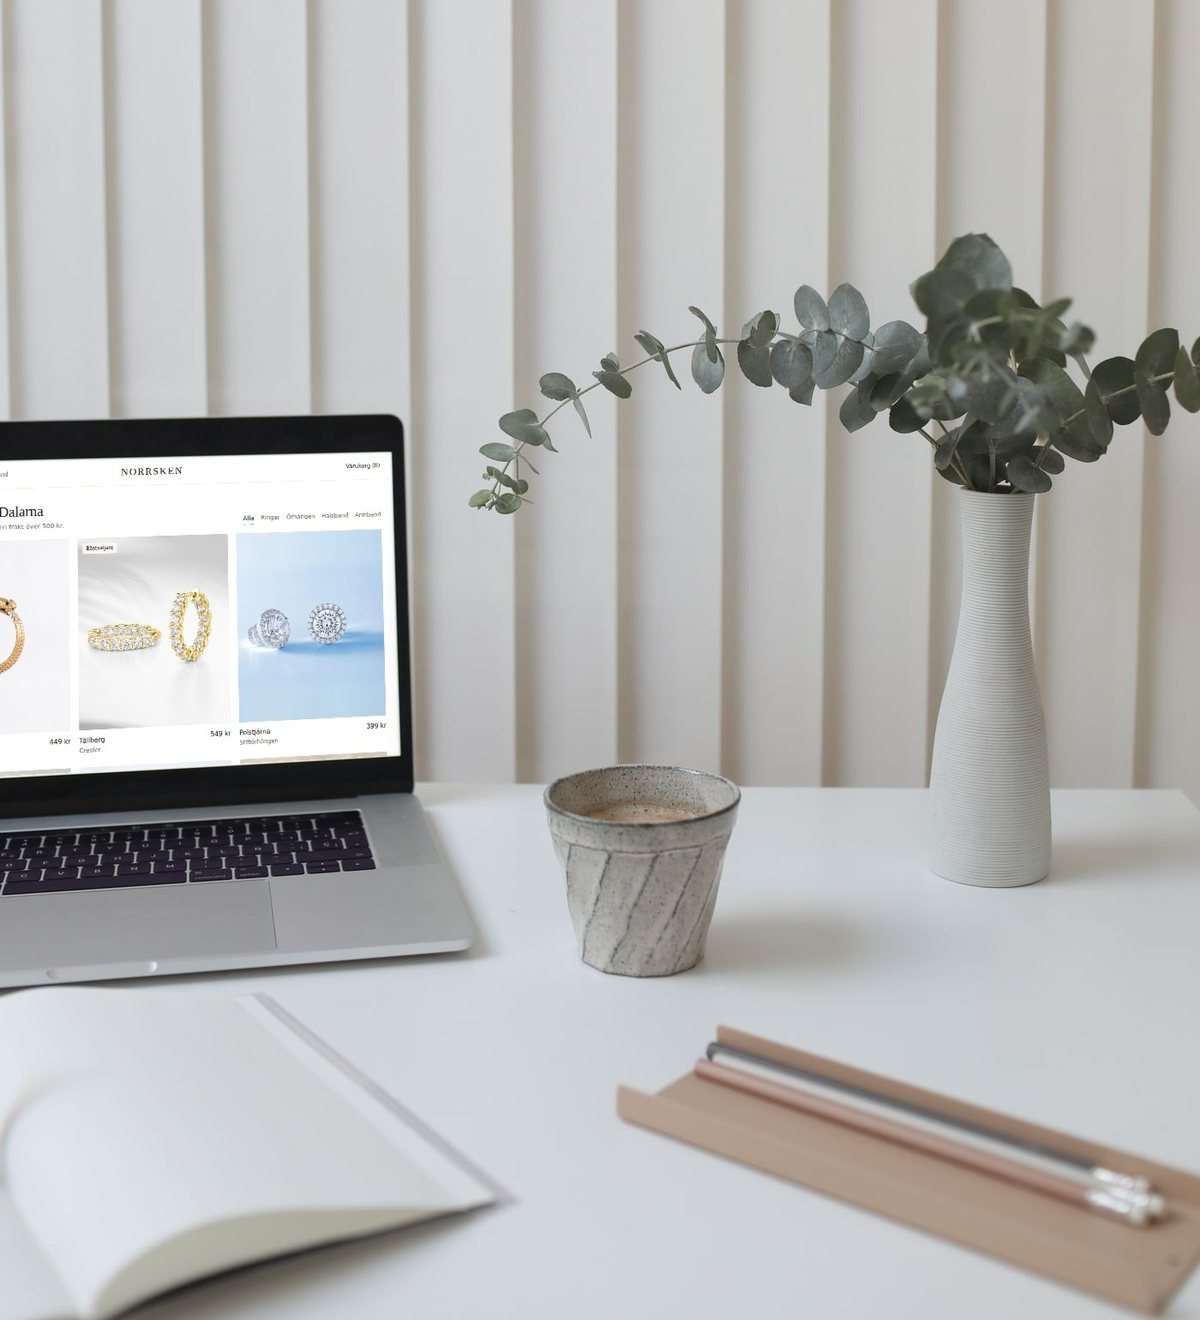
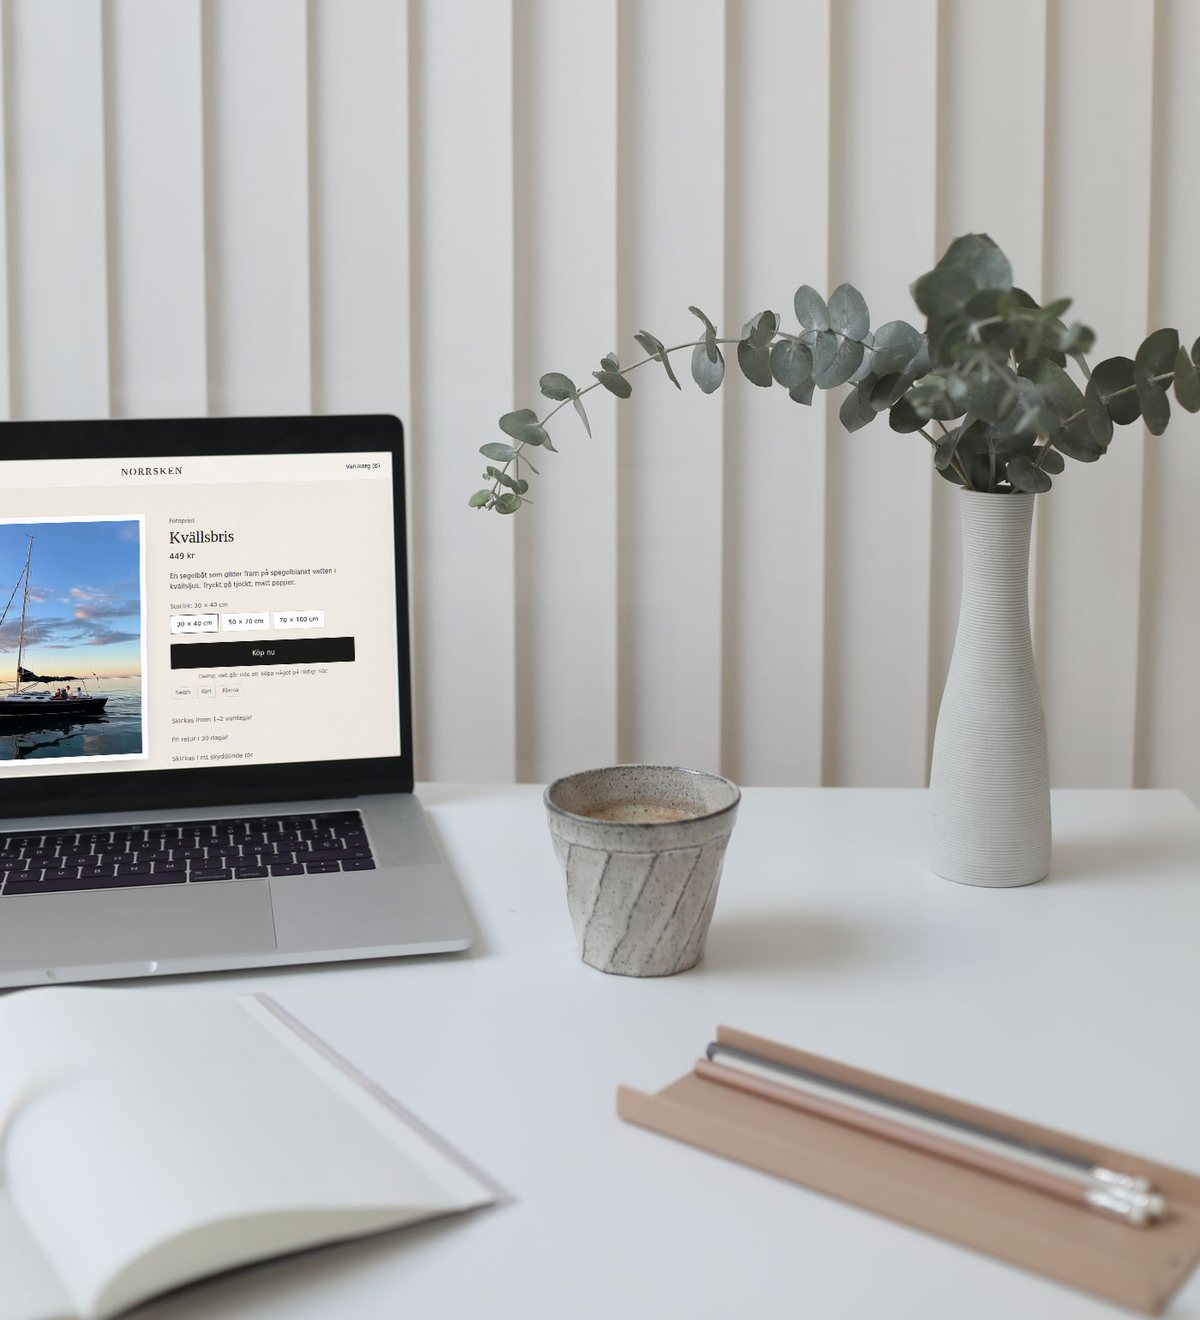
Demobutiken säljer fotoprints med egna bilder
- Fyra nya bilder (segelbåt, klocka, segelfartyg, kaféfönster) som prints
- Priset följer vald storlek, fyra kolumner i butiken
- Laptopen i hero-bilden visar nya butiken

Claude-Session: https://claude.ai/code/session_01FR1mUHjbtbPSzMXYKjZdKj

Changed region(s): [[0.0, 0.3417, 0.3392, 0.5902]]

diff --git a/js/main.js b/js/main.js
@@ -71,46 +71,35 @@
 })();
 
 // ==========================================================
-// Demobutik: Norrsken (påhittat smyckesmärke)
+// Demobutik: Norrsken (påhittad butik med fotoprints)
 // Byt produkter, bilder och priser i listan nedan.
 // ==========================================================
 (function () {
+  var sizes = { name: 'Storlek', values: ['30 × 40 cm', '50 × 70 cm', '70 × 100 cm'] };
   var products = [
     {
-      id: 'orsa', cat: 'Ringar', type: 'Ring', name: 'Orsa', price: 449, label: 'Nyhet',
-      img: 'img/produkter/orsa.jpg',
-      desc: 'Ring formad som en orm som biter sig själv i svansen. Förgyllt silver med graverade fjäll och små svarta ögon.',
-      opt: { name: 'Storlek', values: ['16', '17', '18', '19'] }
+      id: 'kvallsbris', cat: 'Hav', type: 'Fotoprint', name: 'Kvällsbris', price: 449, label: 'Nyhet',
+      img: 'img/produkter/kvallsbris.jpg',
+      desc: 'En segelbåt som glider fram på spegelblankt vatten i kvällsljus. Tryckt på tjockt, matt papper.',
+      opt: sizes
     },
     {
-      id: 'tallberg', cat: 'Örhängen', type: 'Creoler', name: 'Tällberg', price: 549, label: 'Bästsäljare',
-      img: 'img/produkter/tallberg.jpg',
-      desc: 'Creoler i förgyllt silver med en rad glittrande stenar runt hela ringen. Stängs med ett klick.',
-      opt: { name: 'Storlek', values: ['15 mm', '20 mm'] }
+      id: 'tidlos', cat: 'Detaljer', type: 'Fotoprint', name: 'Tidlös', price: 399,
+      img: 'img/produkter/tidlos.jpg',
+      desc: 'En klassisk klocka mot jeans och en grön jacka. En liten detalj som säger mycket.',
+      opt: sizes
     },
     {
-      id: 'polstjarna', cat: 'Örhängen', type: 'Stiftörhängen', name: 'Polstjärna', price: 399,
-      img: 'img/produkter/polstjarna.jpg',
-      desc: 'Stiftörhängen i sterlingsilver. En stor sten omgiven av en krans av små stenar som gnistrar som en stjärnhimmel.',
-      opt: { name: 'Antal', values: ['Par', 'Singel'] }
+      id: 'riggen', cat: 'Hav', type: 'Fotoprint', name: 'Riggen', price: 499, label: 'Bästsäljare',
+      img: 'img/produkter/riggen.jpg',
+      desc: 'Fulla segel, tjocka rep och öppet hav från däck på ett gammalt segelfartyg.',
+      opt: sizes
     },
     {
-      id: 'vika', cat: 'Halsband', type: 'Halsband', name: 'Vika', price: 349,
-      img: 'img/produkter/vika.jpg',
-      desc: 'Tunn, blank kedja i förgyllt silver. Fin att bära ensam eller med ett hänge.',
-      opt: { name: 'Längd', values: ['40 cm', '45 cm', '50 cm'] }
-    },
-    {
-      id: 'rattvik', cat: 'Halsband', type: 'Halsband med hänge', name: 'Rättvik', price: 649,
-      img: 'img/produkter/rattvik.jpg',
-      desc: 'Förgyllt halsband med ett hänge i filigran och en droppformad sten. Gjort för fest, men fungerar lika bra till vardags.',
-      opt: { name: 'Längd', values: ['42 cm', '47 cm'] }
-    },
-    {
-      id: 'leksand', cat: 'Armband', type: 'Armring', name: 'Leksand', price: 499,
-      img: 'img/produkter/leksand.jpg',
-      desc: 'Smal armring i förgyllt stål med små stenar längs ena sidan. Öppnas med ett gångjärn.',
-      opt: { name: 'Storlek', values: ['S', 'M', 'L'] }
+      id: 'regnkvall', cat: 'Stad', type: 'Fotoprint', name: 'Regnkväll', price: 449,
+      img: 'img/produkter/regnkvall.jpg',
+      desc: 'En regnig kväll bakom ett kaféfönster, med böcker, ett glas och en tänd lampa.',
+      opt: sizes
     }
   ];
 
@@ -124,28 +113,30 @@
   function kr(n) { return n.toLocaleString('sv-SE') + ' kr'; }
   function img(src, alt) { return '<img src="' + src + '" alt="' + (alt || '') + '" loading="lazy">'; }
   function find(id) { return products.filter(function (p) { return p.id === id; })[0]; }
-  function total() { return state.product.price * state.qty + SHIPPING; }
+  // Större format kostar 200 kr mer per steg
+  function unitPrice() { return state.product.price + state.product.opt.values.indexOf(state.option) * 200; }
+  function total() { return unitPrice() * state.qty + SHIPPING; }
 
   function header() {
     return '<div class="shop__head">' +
-      '<nav class="shop__menu" aria-hidden="true"><span>Ringar</span><span>Örhängen</span><span>Halsband</span></nav>' +
+      '<nav class="shop__menu" aria-hidden="true"><span>Hav</span><span>Stad</span><span>Detaljer</span></nav>' +
       '<button class="shop__brand" data-go="list">Norrsken</button>' +
       '<span class="shop__cart">Varukorg (' + (state.view === 'checkout' ? state.qty : 0) + ')</span>' +
     '</div>';
   }
 
   function viewList() {
-    var cats = ['Alla', 'Ringar', 'Örhängen', 'Halsband', 'Armband'];
+    var cats = ['Alla', 'Hav', 'Stad', 'Detaljer'];
     var list = products.filter(function (p) { return state.filter === 'Alla' || p.cat === state.filter; });
     return '' +
       '<div class="shop__intro">' +
-        '<div><h3>Smycken från Dalarna</h3><p>Förgyllt och sterlingsilver. Fri frakt över 500 kr.</p></div>' +
+        '<div><h3>Fotoprints med känsla</h3><p>Tryckta på matt papper. Fri frakt över 500 kr.</p></div>' +
         '<div class="shop__filters" role="group" aria-label="Filtrera produkter">' +
           cats.map(function (c) { return '<button data-filter="' + c + '" aria-pressed="' + (state.filter === c) + '">' + c + '</button>'; }).join('') +
         '</div>' +
       '</div>' +
       '<div class="shop__section">' +
-        (state.touched ? '' : '<p class="shop__hint">Tryck på en produkt för att testa köpet.</p>') +
+        (state.touched ? '' : '<p class="shop__hint">Tryck på en bild för att testa köpet.</p>') +
         '<div class="grid">' +
           list.map(function (p) {
             return '<button class="card" data-product="' + p.id + '">' +
@@ -153,7 +144,7 @@
                 (p.label ? '<span class="card__label">' + p.label + '</span>' : '') +
               '</span>' +
               '<span class="card__row"><span><span class="card__name">' + p.name + '</span><span class="card__type">' + p.type + '</span></span>' +
-              '<span class="card__price">' + kr(p.price) + '</span></span>' +
+              '<span class="card__price">från ' + kr(p.price) + '</span></span>' +
             '</button>';
           }).join('') +
         '</div>' +
@@ -164,13 +155,13 @@
     var p = state.product;
     return '' +
       '<div class="shop__section shop__section--pad">' +
-        '<button class="crumbs" data-go="list">← Alla smycken</button>' +
+        '<button class="crumbs" data-go="list">← Alla prints</button>' +
         '<div class="product">' +
           '<div class="product__img">' + img(p.img, p.type + ' ' + p.name) + '</div>' +
           '<div class="product__info">' +
             '<p class="product__type">' + p.type + '</p>' +
             '<h3>' + p.name + '</h3>' +
-            '<p class="product__price">' + kr(p.price) + '</p>' +
+            '<p class="product__price">' + kr(unitPrice()) + '</p>' +
             '<p class="product__desc">' + p.desc + '</p>' +
             '<div class="product__opt"><span>' + p.opt.name + ': ' + state.option + '</span>' +
               '<div class="chips">' + p.opt.values.map(function (v) {
@@ -180,7 +171,7 @@
             '<button class="buy" data-go="checkout">Köp nu</button>' +
             '<p class="demo-only">Demo: det går inte att köpa något på riktigt här.</p>' +
             '<div class="paylist"><span>Swish</span><span>Kort</span><span>Klarna</span></div>' +
-            '<ul class="product__usp"><li>Skickas inom 1–2 vardagar</li><li>Fri retur i 30 dagar</li><li>Levereras i presentask</li></ul>' +
+            '<ul class="product__usp"><li>Skickas inom 1–2 vardagar</li><li>Fri retur i 30 dagar</li><li>Skickas i ett skyddande rör</li></ul>' +
           '</div>' +
         '</div>' +
       '</div>';
@@ -234,7 +225,7 @@
                 '<span class="qty"><button data-qty="-1" aria-label="Minska antal">−</button><span>' + state.qty + '</span><button data-qty="1" aria-label="Öka antal">+</button></span>' +
               '</div>' +
             '</div>' +
-            '<div class="sum"><span>Delsumma</span><span>' + kr(p.price * state.qty) + '</span></div>' +
+            '<div class="sum"><span>Delsumma</span><span>' + kr(unitPrice() * state.qty) + '</span></div>' +
             '<div class="sum"><span>Frakt</span><span>' + kr(SHIPPING) + '</span></div>' +
             '<div class="sum sum--total"><span>Totalt</span><span>' + kr(total()) + '</span></div>' +
             '<p class="demo-flag">Demo. Inga pengar dras och ingen order skickas.</p>' +

diff --git a/index.html b/index.html
@@ -17,7 +17,7 @@
   <link rel="preconnect" href="https://fonts.googleapis.com">
   <link rel="preconnect" href="https://fonts.gstatic.com" crossorigin>
   <link href="https://fonts.googleapis.com/css2?family=Geist:wght@400;500;600&family=Source+Serif+4:opsz,wght@8..60,500&family=Newsreader:ital,opsz,wght@0,6..72,400;1,6..72,400&display=swap" rel="stylesheet">
-  <link rel="stylesheet" href="css/style.css?v=10">
+  <link rel="stylesheet" href="css/style.css?v=11">
 </head>
 <body>
   <script>document.documentElement.classList.add('js');</script>
@@ -112,15 +112,15 @@
         <div class="head">
           <p class="label">02 — Demobutik</p>
           <h2>Testa hur det känns att <em class="accent">handla</em>.</h2>
-          <p>Norrsken är en påhittad smyckesbutik som vi byggt. Tryck på en produkt, välj storlek och gå till kassan. Inga riktiga pengar dras.</p>
+          <p>Norrsken är en påhittad butik med fotoprints som vi byggt. Tryck på en bild, välj storlek och gå till kassan. Inga riktiga pengar dras.</p>
         </div>
 
-        <p class="notice"><strong>OBS!</strong> Butiken är bara till för att visa hur det fungerar. Vi säljer inte de här smyckena.</p>
+        <p class="notice"><strong>OBS!</strong> Butiken är bara till för att visa hur det fungerar. Vi säljer inte de här bilderna.</p>
 
         <div class="browser">
           <div class="browser__bar">
             <span class="browser__dots" aria-hidden="true"><i></i><i></i><i></i></span>
-            <span class="browser__url">norrskensmycken.se<span id="demoPath"></span></span>
+            <span class="browser__url">norrskenprints.se<span id="demoPath"></span></span>
             <span class="browser__badge">Demo</span>
           </div>
           <div class="shop" id="shop" aria-live="polite">
@@ -320,6 +320,6 @@
     <a href="#offert" class="btn btn--block">Begär offert</a>
   </div>
 
-  <script src="js/main.js?v=10"></script>
+  <script src="js/main.js?v=11"></script>
 </body>
 </html>

diff --git a/css/style.css b/css/style.css
@@ -167,7 +167,7 @@ a:focus-visible, button:focus-visible, input:focus-visible, select:focus-visible
 }
 .shop__hint { font-size: .85rem; color: var(--accent); margin: 0 0 14px; }
 
-.grid { display: grid; grid-template-columns: repeat(3, 1fr); gap: 40px 36px; max-width: 920px; margin: 0 auto; }
+.grid { display: grid; grid-template-columns: repeat(4, 1fr); gap: 40px 28px; max-width: 1040px; margin: 0 auto; }
 @media (max-width: 900px) { .grid { grid-template-columns: repeat(2, 1fr); gap: 28px 14px; } .card__img { padding: 8px; } .card__label { top: 14px; left: 14px; } }
 
 .card { display: block; width: 100%; background: none; border: 0; padding: 0; text-align: left; font: inherit; color: inherit; cursor: pointer; }

diff --git a/404.html b/404.html
@@ -9,7 +9,7 @@
   <link rel="preconnect" href="https://fonts.googleapis.com">
   <link rel="preconnect" href="https://fonts.gstatic.com" crossorigin>
   <link href="https://fonts.googleapis.com/css2?family=Geist:wght@400;500;600&display=swap" rel="stylesheet">
-  <link rel="stylesheet" href="/css/style.css?v=10">
+  <link rel="stylesheet" href="/css/style.css?v=11">
 </head>
 <body>
   <main class="thanks">

diff --git a/tack.html b/tack.html
@@ -9,7 +9,7 @@
   <link rel="preconnect" href="https://fonts.googleapis.com">
   <link rel="preconnect" href="https://fonts.gstatic.com" crossorigin>
   <link href="https://fonts.googleapis.com/css2?family=Geist:wght@400;500;600&display=swap" rel="stylesheet">
-  <link rel="stylesheet" href="css/style.css?v=10">
+  <link rel="stylesheet" href="css/style.css?v=11">
 </head>
 <body>
   <main class="thanks">

diff --git a/README.md b/README.md
@@ -21,16 +21,10 @@ Hemsida för vårt UF-företag Elevora. Ren HTML, CSS och JavaScript, inget bygg
 
 ## Bilder
 
-Alla bilder är riktiga foton från [Pexels](https://www.pexels.com) och får användas fritt, även kommersiellt.
+Hero-bilden kommer från [Pexels](https://www.pexels.com) och får användas fritt, även kommersiellt.
 
 - `img/hero.jpg` – laptop på skrivbord ([foto 6177610](https://www.pexels.com/photo/6177610/)). På skärmen har vi lagt in en skärmdump av vår egen demobutik.
-- `img/produkter/` – produkterna i demobutiken Norrsken, ett påhittat märke:
-  - orsa.jpg – [15727970](https://www.pexels.com/photo/15727970/)
-  - tallberg.jpg – [20943477](https://www.pexels.com/photo/20943477/)
-  - polstjarna.jpg – [5370642](https://www.pexels.com/photo/5370642/)
-  - vika.jpg – [12194265](https://www.pexels.com/photo/12194265/)
-  - rattvik.jpg – [7134458](https://www.pexels.com/photo/7134458/)
-  - leksand.jpg – [12194316](https://www.pexels.com/photo/12194316/)
+- `img/produkter/` – bilderna i demobutiken Norrsken, en påhittad butik med fotoprints: kvallsbris.jpg, tidlos.jpg, riggen.jpg och regnkvall.jpg. De är uppladdade av oss. Om de inte är våra egna foton behöver vi ha tillstånd att använda dem.
 
 När ni har ett riktigt kundexempel kan ni byta ut bilderna. Behåll samma filnamn eller ändra sökvägarna i `js/main.js`.
 
